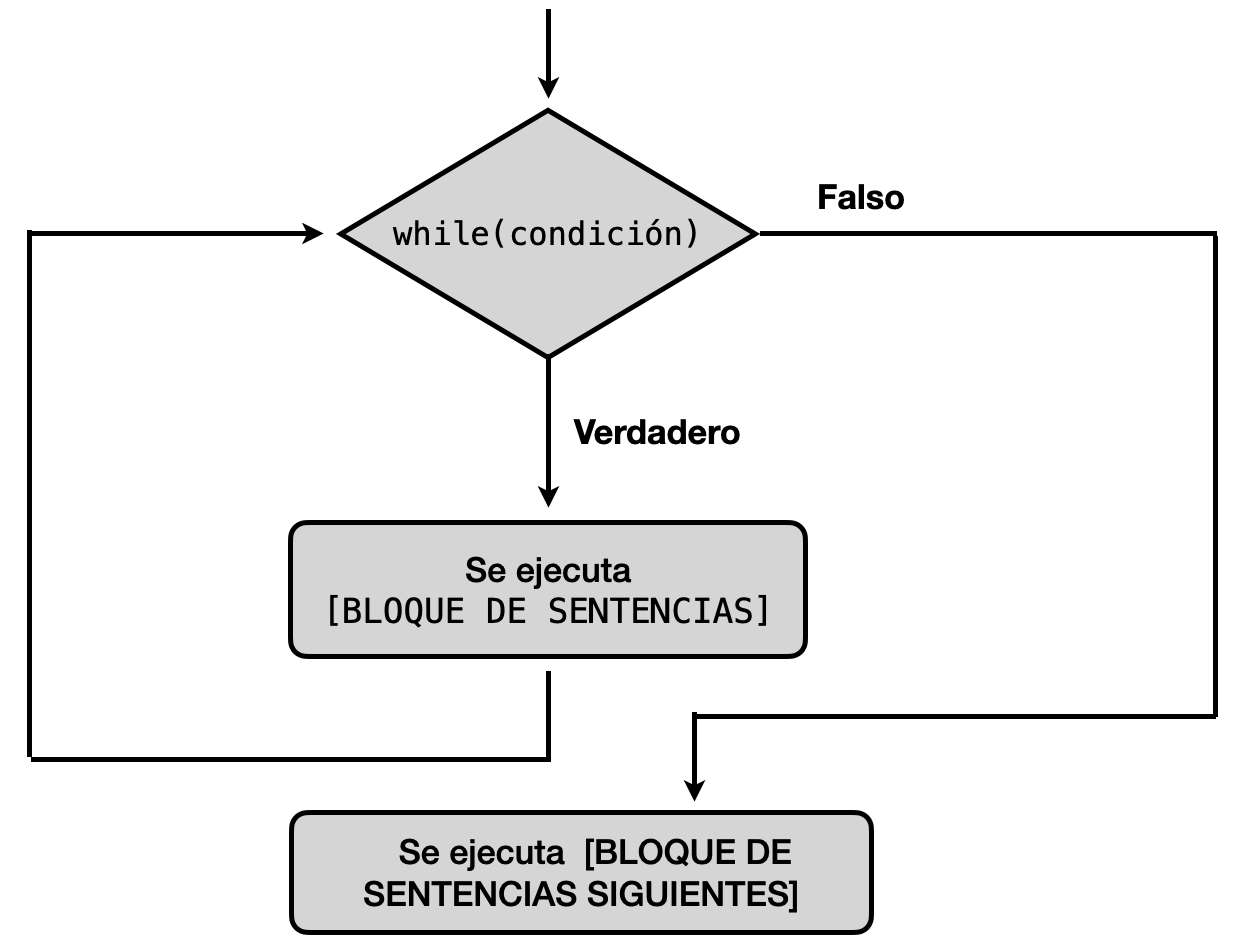
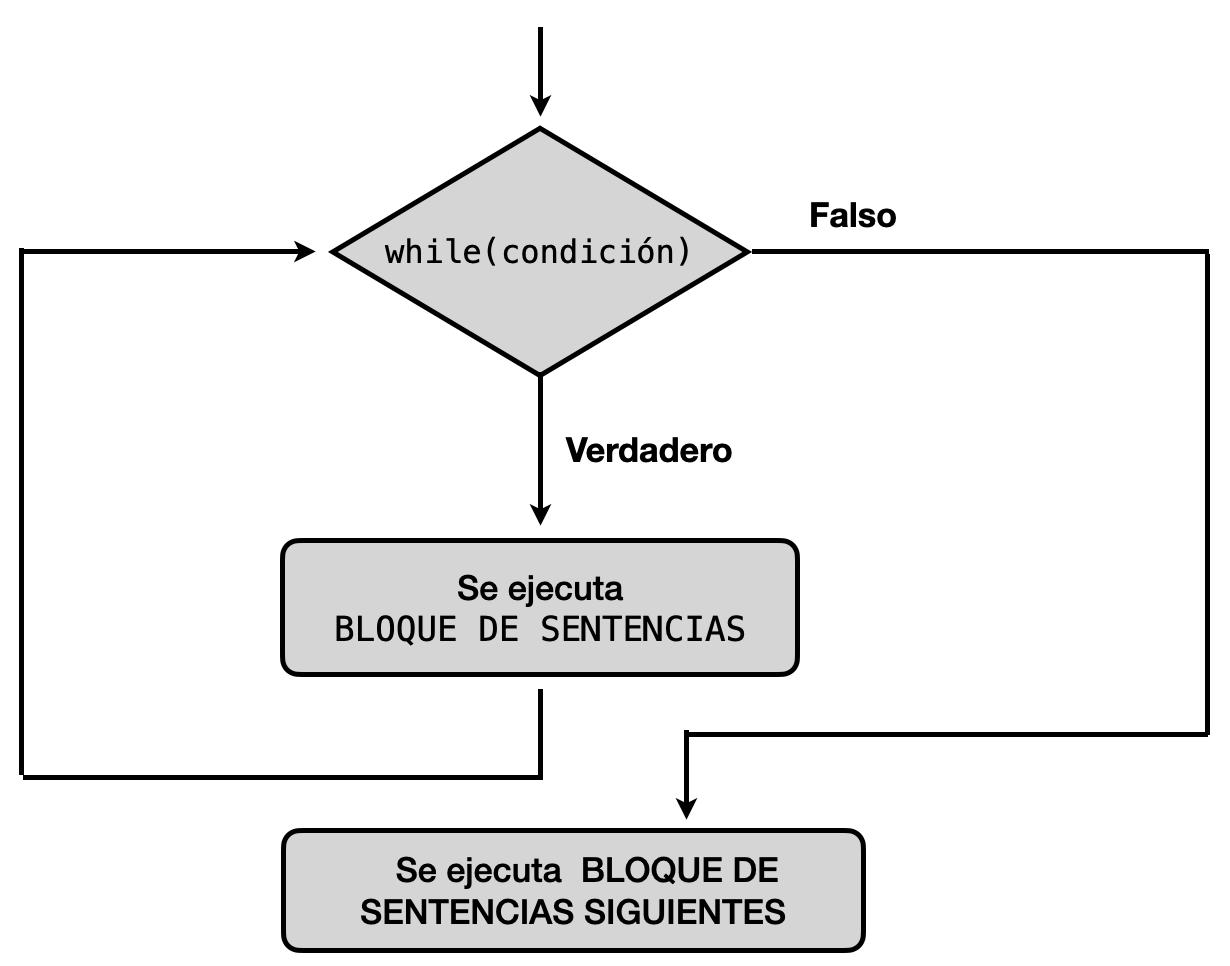
minor change in iteration section

Changed region(s): [[0.0, 0.0, 0.9886, 1.0]]

diff --git a/Ingreso2024/class4.md b/Ingreso2024/class4.md
@@ -76,7 +76,7 @@ Esta estructura también la  usaremos cuando sabemos exactamente el número de r
         pintar()
         derecha()
     }
-    [BLOQUE DE SENTENCIAS SIGUIENTES]
+    BLOQUE DE SENTENCIAS SIGUIENTES
     ...
 
 ```
@@ -92,7 +92,7 @@ Esta estructura también la  usaremos cuando sabemos exactamente el número de r
 >        pintar()
 >        derecha()
 >    }
->    [BLOQUE DE SENTENCIAS SIGUIENTES]
+>    BLOQUE DE SENTENCIAS SIGUIENTES
 >    ...
 >
 > ```
@@ -216,10 +216,10 @@ Por último, analizaremos la semántica (significado) de la estructura repetitiv
 ```js
     ...
     while (CONDICION) {
-        [BLOQUE DE SENTENCIAS] 
+        BLOQUE DE SENTENCIAS 
     }
 
-    [BLOQUE DE SENTENCIAS SIGUIENTES]
+    BLOQUE DE SENTENCIAS SIGUIENTES
    ` ...
 ```
 
